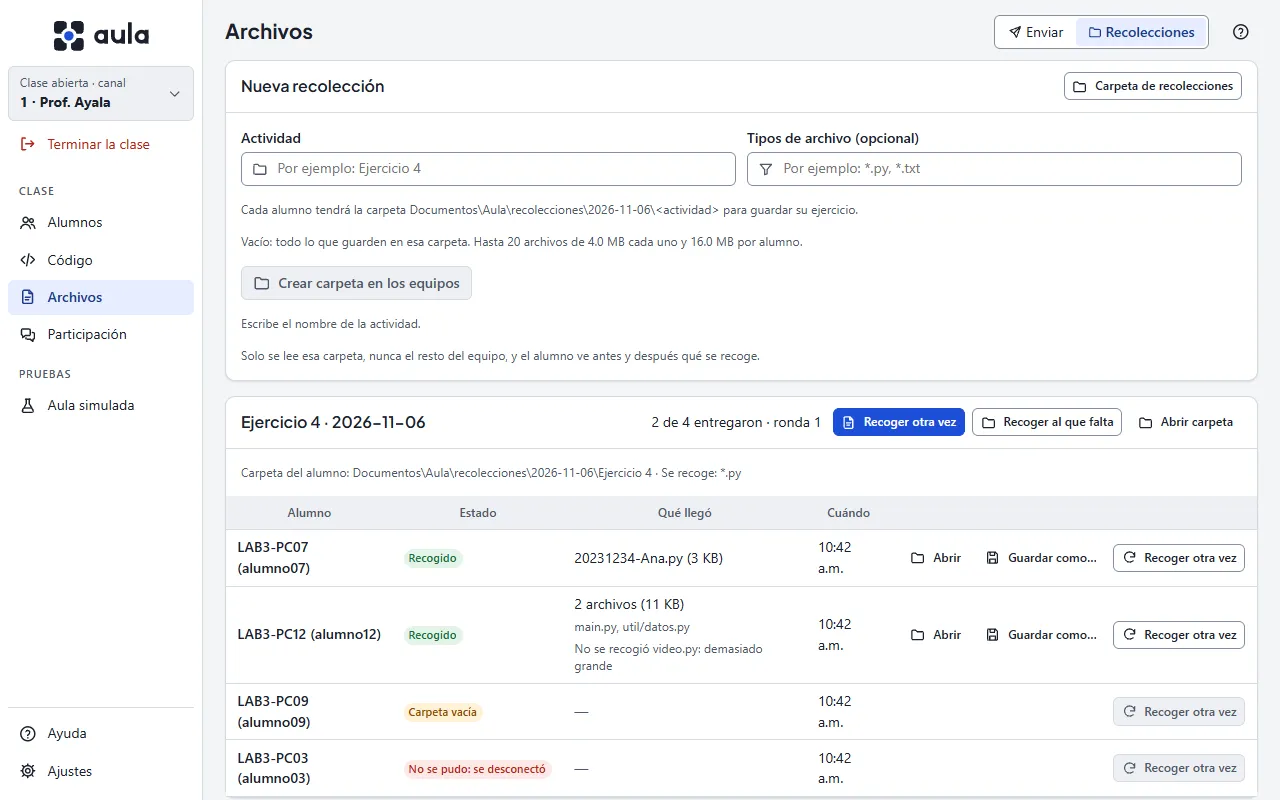
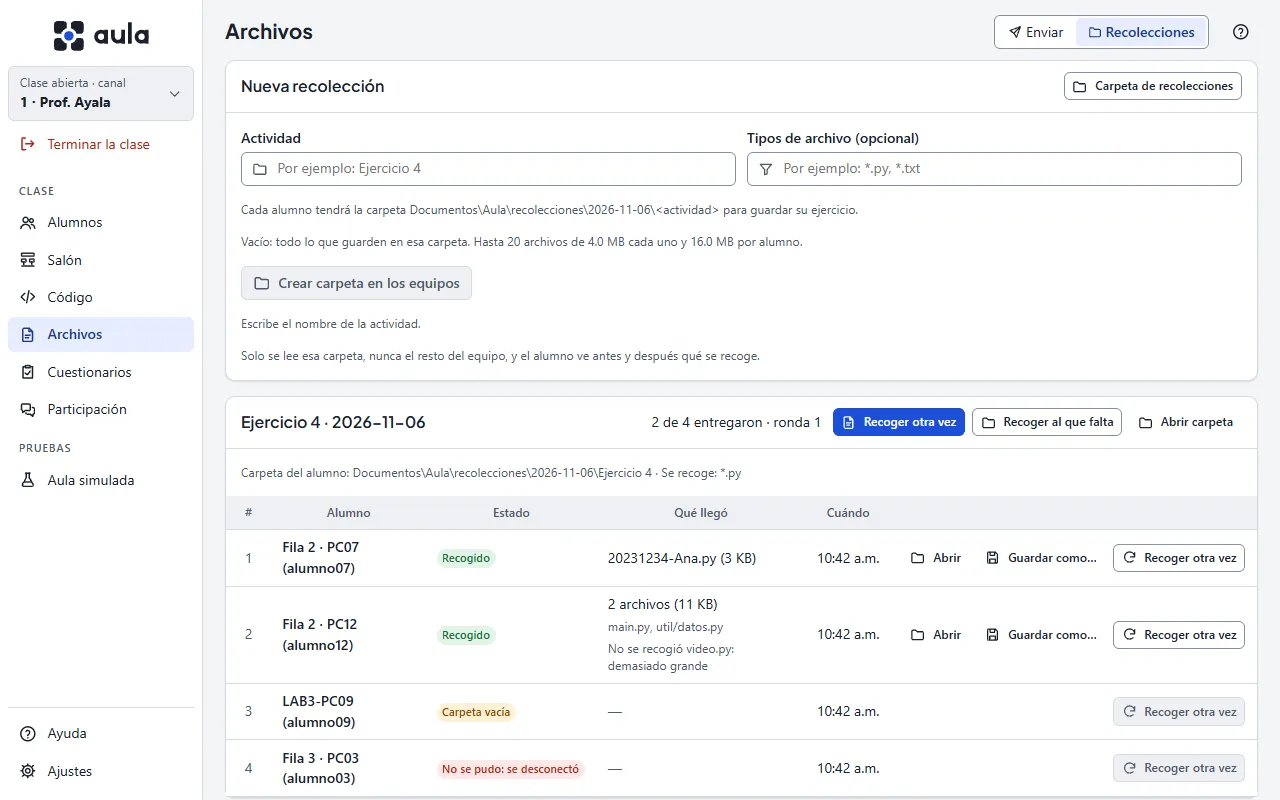
documentacion(docs): manual de las notas de interfaz y prompt 10.26 de la bandeja tipo chat
El manual describe la columna Acciones, Encender en la barra, el editor de cuestionarios en su
diálogo y Participación en dos columnas, con sus capturas regeneradas. La bandeja de mensajes
tipo chat de la nota 015 queda como prompt 10.26, para /funcionalidad-mejora.

diff --git a/docs/prompts/10.26-bandeja-de-mensajes-tipo-chat.md b/docs/prompts/10.26-bandeja-de-mensajes-tipo-chat.md
@@ -1,0 +1,93 @@
+# 10.26 · Bandeja de mensajes tipo chat, con historial
+
+**Origen:** nota de interfaz 015 (v0.1.0, 13/11/2026): «la sección de Manos y mensajes quiero que
+tenga un diseño como las aplicaciones de chats, con clasificación de inbox e historial de mensajes
+como el correo de Gmail». La nota se cerró con el acomodo en dos columnas de Participación; esta
+parte quedó aquí. Es una **mejora de 10.6** (manos y mensajes) **y 10.7** (mensaje privado): se
+trabaja con **`/funcionalidad-mejora`**, no con `/funcionalidad-nueva`.
+**Prerrequisitos:** 10.6 y 10.7. Si ya existe 10.13, la conversación muestra el nombre del alumno
+identificado.
+
+## Prompt
+
+~~~~markdown
+Lee CLAUDE.md, docs/protocol.md (§5.18 y msg.show con personal y reply_to), docs/privacidad.md
+(manos y mensajes, mensaje privado) y docs/progreso.md. Vamos a mejorar la bandeja de mensajes de
+Participación para que se use como una app de chat: cada alumno es una **conversación**, con lo
+que escribió y lo que le respondí en orden, y una **bandeja** que separa lo que falta por atender
+de lo ya atendido, como el correo. Hoy cada mensaje es una tarjeta suelta y la respuesta queda en
+una línea debajo; con 30 alumnos escribiendo no se sigue el hilo.
+
+## Qué hace (confírmalo en el diseño)
+- **Bandeja (lista de conversaciones):** una fila por alumno con su equipo (la etiqueta del salón,
+  10.15), su usuario, el último mensaje recortado, la hora y una insignia con cuántos sin leer.
+  Pestañas o filtro: **Por atender** (tiene mensajes sin responder ni marcar), **Atendidas** y
+  **Todas**. Orden: la más reciente arriba. Búsqueda por equipo o usuario.
+- **Conversación (hilo):** los mensajes del alumno a un lado y mis respuestas al otro, con su hora,
+  como un chat; abajo, el cuadro para responder (Enter envía, Mayús+Enter salto de línea) y
+  «Marcar como atendida». Responder usa lo que ya existe (`msg.show` personal con `reply_to`).
+- **Manos levantadas:** siguen como fila propia (orden de llegada), arriba de la bandeja o en su
+  pestaña; una mano con motivo abre la conversación de ese alumno.
+- **Historial:** el de la clase, en memoria, como hoy (hasta 20 mensajes por alumno; decide si sube
+  y qué se descarta). Guardarlo entre clases **cambia una regla de privacidad**: solo si se
+  aprueba aparte.
+- **Alumno (decide):** si «Tus mensajes» de su ventana muestra también el hilo con las respuestas
+  del profesor, en vez de recibirlas solo como avisos sueltos.
+
+## 1. Diseño (detente para que lo apruebe)
+- **Protocolo:** de preferencia ninguno nuevo. Si el hilo del alumno necesita saber qué mensaje
+  respondió el profesor, revisa si basta `reply_to`; un campo nuevo es opcional y va primero en
+  `docs/protocol.md`.
+- **Privacidad:** se mantiene «solo en memoria; nunca registra el texto»; los mensajes de un alumno
+  nunca los ve otro; al terminar la clase (10.14) se vacían. Si propones guardar historial entre
+  clases, es una regla nueva en `docs/privacidad.md` y una decisión aparte.
+- **Ubicación:** 2–3 bocetos con los nombres de `docs/ux/MAPA.md`, dentro de la vista
+  «Participación» (columna izquierda, Manos y mensajes; nota 015): p. ej. bandeja y hilo lado a
+  lado dentro de la sección; bandeja que al elegir una conversación la abre en lugar de la lista
+  (con «Volver»); o el hilo en un panel lateral. Cómo se ve a 900×600 y con 30 conversaciones.
+  Recomienda uno.
+- Teclado: recorrer la bandeja con flechas, abrir con Enter, volver con Esc; el foco nunca se
+  pierde al llegar un mensaje nuevo. Un mensaje nuevo no reordena la lista bajo el cursor ni
+  roba el foco del cuadro de respuesta.
+- El contador del menú y las insignias de la Lista de alumnos siguen contando lo mismo.
+Espera mi aprobación.
+
+## 2. Implementación (cuando apruebe)
+- Lógica en `internal/participation` (`Board`): conversaciones por alumno, sin leer, atendidas, y
+  el orden; nada de SO. Las respuestas siguen por el binding de 10.6/10.7.
+- Consola: la bandeja y el hilo con componentes de `sistema/` (si falta uno, como la burbuja de
+  mensaje, se agrega a `internal/ui` y a su catálogo), claro, oscuro y 900×600.
+- Alumno (si se aprueba): el hilo en «Tus mensajes», con `notify`; nunca `raise`.
+- Alumnos simulados: sí (ya escriben con «Escribir» en Aula simulada); marcados como simulados.
+
+## 3. Pruebas y cierre
+- Pruebas: orden de la bandeja, sin leer y atendidas, el límite por alumno, que un mensaje que
+  llega no cambia la conversación abierta, terminar la clase vacía todo, y que el texto nunca va
+  a los logs.
+- Arnés: escenas con 30 conversaciones (una abierta, varias sin leer) en claro, oscuro y 900×600;
+  si cambia el alumno, su escena y `pruebas-alumno.mjs` (no quita el foco).
+- La «Definición de terminado» de CLAUDE.md completa (es una mejora: actualiza lo existente, no
+  dupliques la página del manual ni el diagrama).
+
+## Restricciones
+- No cambia cómo escribe el alumno ni el ritmo de `msg.student` (§5.18).
+- Solo en memoria salvo una regla de privacidad aprobada aparte.
+- Cambios incrementales: no reescribas `participation` entero; agrega lo que falta al `Board`.
+
+## Encaje con lo implementado (no lo cambies sin decirlo)
+Aplica la «Definición de terminado» de CLAUDE.md. Para esta mejora en concreto:
+- Consola: Participación › «Manos levantadas» y «Mensajes de los alumnos» (zonas `manos` y
+  `mensajes` de `scripts/ux/zonas.mjs`), en la columna izquierda de la vista (nota 015). Zonas
+  nuevas (bandeja, hilo) en `zonas.mjs` y el mapa regenerado.
+- Alumno: «Tus mensajes» (zona `enviados`), si se aprueba el hilo.
+- Diagramas: actualizar 18-manos-mensajes (la conversación).
+- Manual: `participacion.md` (Manos y mensajes) y Tareas frecuentes «Mandar un mensaje privado a
+  un alumno».
+- Versión: cambio visible compatible (minor).
+~~~~
+
+## Verificación manual
+- [ ] Con tres alumnos escribiendo: ¿cada uno es una conversación con su hilo en orden?
+- [ ] Respondo a uno: ¿pasa a «Atendidas» y el alumno recibe la respuesta?
+- [ ] Llega un mensaje mientras escribo una respuesta: ¿no pierdo el foco ni lo escrito?
+- [ ] Terminar la clase: ¿la bandeja queda vacía?

diff --git a/docs/administracion/alumnos.md b/docs/administracion/alumnos.md
@@ -15,9 +15,11 @@ o solo a algunos.
 
 ## Lista, miniaturas o salón
 
-- **Lista**: una fila por equipo con su estado, el código que tiene en pantalla, su sistema y
-  versión de Aula, y notas (por ejemplo, «No comparte su pantalla», «Restricciones» o «No pudo: …»
-  si su equipo contestó con un problema).
+- **Lista**: una fila por equipo, numerada, con su estado, el código que tiene en pantalla, su
+  sistema y versión de Aula, notas (por ejemplo, «No comparte su pantalla», «Restricciones» o «No
+  pudo: …» si su equipo contestó con un problema) y sus **Acciones**: ⓘ abre su ficha, ⚡ lo
+  enciende si está apagado y 🗑 olvida un equipo apagado. Al pasar el mouse, cada icono dice qué
+  hace. Si la lista es larga, se desplaza y el encabezado de la tabla se queda arriba.
 - **Miniaturas**: la pantalla de cada alumno, como un monitor, actualizada cada segundo. Haz clic
   en una para verla en grande. Con **Tamaño** las haces más chicas o más grandes (Pequeño, Mediano,
   Grande, Extra grande) o eliges **Ajustar a la pantalla** para ver a todos sin desplazarte; la
@@ -36,7 +38,7 @@ siendo vista por el profesor». Las imágenes no se guardan: al volver a Lista s
 
 ## La ficha de un alumno
 
-El botón de información al final de cada fila abre su **ficha** a la derecha: usuario, estado,
+El botón ⓘ de la columna Acciones abre su **ficha** a la derecha: usuario, estado,
 la etiqueta y el nombre de su equipo, su lugar en el salón, sistema, versión de Aula, canal, desde
 qué hora está conectado y sus restricciones. Abajo dice
 **qué puede hacer su equipo** (recibir código, mostrar su pantalla, energía, control remoto…), y
@@ -74,13 +76,16 @@ privado, Proyectar, Pausar ni Abrir.
 
 ## Seleccionar alumnos
 
-Haz clic en una fila o su casilla, o usa **Seleccionar todos** (también con Ctrl+A). Arriba, junto
+Haz clic en una fila o su casilla, o usa el botón ✓ de la cabecera, **Seleccionar todos** (también
+con Ctrl+A). Los equipos apagados se marcan todos juntos con la casilla de su grupo. Arriba, junto
 a los conectados, dice **Todos (n)** o **n seleccionados** (al pasar el mouse explica a quién van).
 **Sin selección, las acciones van a todos los conectados.**
 
 ## Acciones sobre la selección
 
-La barra de abajo abre un panel a la derecha, sin tapar la lista:
+La barra de abajo tiene un botón por acción, todos del mismo tamaño, con su icono y su nombre (en
+una ventana angosta, solo el icono; el nombre sale al pasar el mouse). Casi todas abren un panel a
+la derecha, sin tapar la lista:
 
 | Acción | Qué hace | Más |
 |---|---|---|
@@ -91,6 +96,7 @@ La barra de abajo abre un panel a la derecha, sin tapar la lista:
 | Energía | Apaga, reinicia o cierra la sesión de los equipos. | [Tareas frecuentes](tareas-frecuentes#apagar-o-reiniciar-los-equipos) |
 | Captura | Toma una foto de la pantalla de cada uno; guardas las que elijas. | [Tareas frecuentes](tareas-frecuentes#tomar-una-captura-de-la-pantalla-de-un-alumno) |
 | Abrir | Abre una página en su navegador o una app permitida en su equipo. | [Tareas frecuentes](tareas-frecuentes#abrir-una-página-o-una-app-en-los-equipos) |
+| Encender | Enciende los equipos marcados que están apagados; se activa al marcar al menos uno. | [Tareas frecuentes](tareas-frecuentes#encender-los-equipos) |
 
 ## Estados de un alumno
 
@@ -100,7 +106,7 @@ La barra de abajo abre un panel a la derecha, sin tapar la lista:
 - **Sin sesión iniciada**: el equipo está encendido pero nadie inició sesión; solo puede recibir
   órdenes de energía.
 - **Apagado**: un equipo que ya se conectó alguna vez a esta consola y ahora no está; se ve con el
-  interruptor **Mostrar apagados**, con la última vez que se vio. **Encendiendo…** y **No
+  interruptor **Apagados (n)** de la cabecera, con la última vez que se vio. **Encendiendo…** y **No
   respondió** dicen cómo va su encendido: [Encender los equipos](tareas-frecuentes#encender-los-equipos).
 - **En pausa** (insignia en Notas): su pantalla está cubierta por la pausa. **Pausando…** o **Sin
   acusar la pausa** dicen que su equipo aún no la confirma; **No se pudo pausar**, que su equipo no

diff --git a/docs/administracion/tareas-frecuentes.md b/docs/administracion/tareas-frecuentes.md
@@ -251,15 +251,17 @@ desde aquí aunque esté apagado (Wake-on-LAN). La primera vez hay que encenderl
    conexión del canal; con alumnos marcados, solo a esos.
 2. Pulsa **Encender**.
 
-También puedes encender uno solo con el botón **Encender** de su fila. Los equipos que no tienen
-sesión en esta consola aparecen con el interruptor **Mostrar apagados** de la lista de Alumnos.
+También puedes marcar los equipos apagados (la casilla de su grupo los marca todos) y pulsar
+**Encender** en la barra de acciones, o encender uno solo con el ⚡ de su columna Acciones. Los
+equipos que no tienen sesión en esta consola aparecen con el interruptor **Apagados (n)** de la
+cabecera de Alumnos.
 
 - Mientras arranca, la fila dice **Encendiendo…** con lo que falta de los 3 minutos que Aula
   espera. Cuando su agente se conecta, vuelve a ser un alumno conectado.
 - Si no se conecta a tiempo, la fila dice **No respondió**. Pulsa **¿Por qué?** y revisa
   [Un equipo no se enciende](solucion-de-problemas#un-equipo-no-se-enciende).
 - Encender no le hace nada a un equipo que ya está encendido, por eso no pide confirmación.
-- **Olvidar** (en la fila de un apagado) borra de la consola la dirección física del equipo. Si
+- **Olvidar** (el 🗑 de la columna Acciones de un apagado) borra de la consola la dirección física del equipo. Si
   su agente se vuelve a conectar, Aula lo recuerda otra vez.
 
 ## Acomodar el salón

diff --git a/docs/administracion/cuestionarios.md b/docs/administracion/cuestionarios.md
@@ -31,7 +31,8 @@ Un archivo que Aula no puede leer (por ejemplo, si se editó a mano y quedó rot
 
 ## Crear un cuestionario
 
-Pulsa **Nuevo cuestionario**:
+Pulsa **Nuevo cuestionario**: el editor se abre en su propio diálogo, con los **datos del
+cuestionario** arriba y las **preguntas** debajo. **Cancelar**, la X o Esc lo cierran sin guardar.
 
 1. Escribe el **título** (hasta 80 caracteres): es lo que ve el alumno arriba de su tarjeta.
 2. Si quieres, pon un **tiempo en minutos** (hasta 120). Al lanzarlo se pone en marcha el
@@ -42,8 +43,9 @@ Pulsa **Nuevo cuestionario**:
    el mismo para el mismo alumno, aunque se reconecte).
 4. Para cada pregunta escribe el **texto** (hasta 200 caracteres), elige el **tipo** y sus
    **puntos** (de 1 a 100):
-   - **Opción múltiple**: de 2 a 6 opciones. Marca con **Correcta** una o varias. Con varias, el
-     alumno ve «Elige todas las que apliquen».
+   - **Opción múltiple**: de 2 a 6 opciones. Enciende el interruptor de la columna **Correcta** en
+     una o varias; el 🗑 al final de la fila quita la opción. Con varias correctas, el alumno ve
+     «Elige todas las que apliquen».
    - **Sí o no**: elige si **la correcta** es Sí o No.
 5. **Agregar pregunta** suma otra (hasta 30). **Quitar pregunta** quita la suya.
 6. Pulsa **Guardar**, o **Guardar y lanzar** para mandarlo ahora mismo.

diff --git a/CHANGELOG.md b/CHANGELOG.md
@@ -112,6 +112,15 @@ retiraron; esta es la primera.
 - **Identidad nueva, Nodo:** el logo de Aula (cuatro pantallas unidas por un punto) en el icono de
   las dos apps y de la bandeja, y títulos en Plus Jakarta Sans, incluida en Aula para que se vea
   igual sin internet. El código que recibe el alumno se ve un poco más grande (14 px).
+- **Tablas más claras:** cada fila numerada («#»), el encabezado fijo al desplazarse y cada dato
+  alineado según su tipo (texto a la izquierda, horas al centro, cantidades a la derecha). Una
+  lista larga de alumnos ya se desplaza y la barra de acciones se queda abajo.
+- **Alumnos:** la cabecera en una sola línea; la barra de acciones con botones iguales (icono arriba
+  y nombre abajo) y **Encender** para los equipos marcados; una columna **Acciones** con iconos
+  (ficha, Encender, Olvidar) y una casilla para marcar todos los apagados.
+- El editor de cuestionarios se abre en su propio diálogo, con la columna **Correcta** separada de
+  quitar la opción; **Salón** pone «Sin acomodar» y «Equipo elegido» arriba y el plano a todo lo
+  ancho; **Participación** se ve en dos columnas.
 
 ### Para quien instala
 

diff --git a/docs/administracion/participacion.md b/docs/administracion/participacion.md
@@ -14,6 +14,9 @@ sigues también el **temporizador** del ejercicio. El número junto a **Particip
 el menú cuenta lo que espera tu atención: las manos levantadas y los mensajes que aún no
 respondes.
 
+En una ventana ancha se ve en dos columnas: a la izquierda **Manos y mensajes**; a la derecha
+**Encuestas** y debajo **Temporizador**. En una angosta, una debajo de otra.
+
 ![Participación con dos manos levantadas y un mensaje nuevo](img/participacion.webp)
 
 Cuando llega una mano o un mensaje, aparece un aviso abajo a la derecha con el nombre del equipo.
